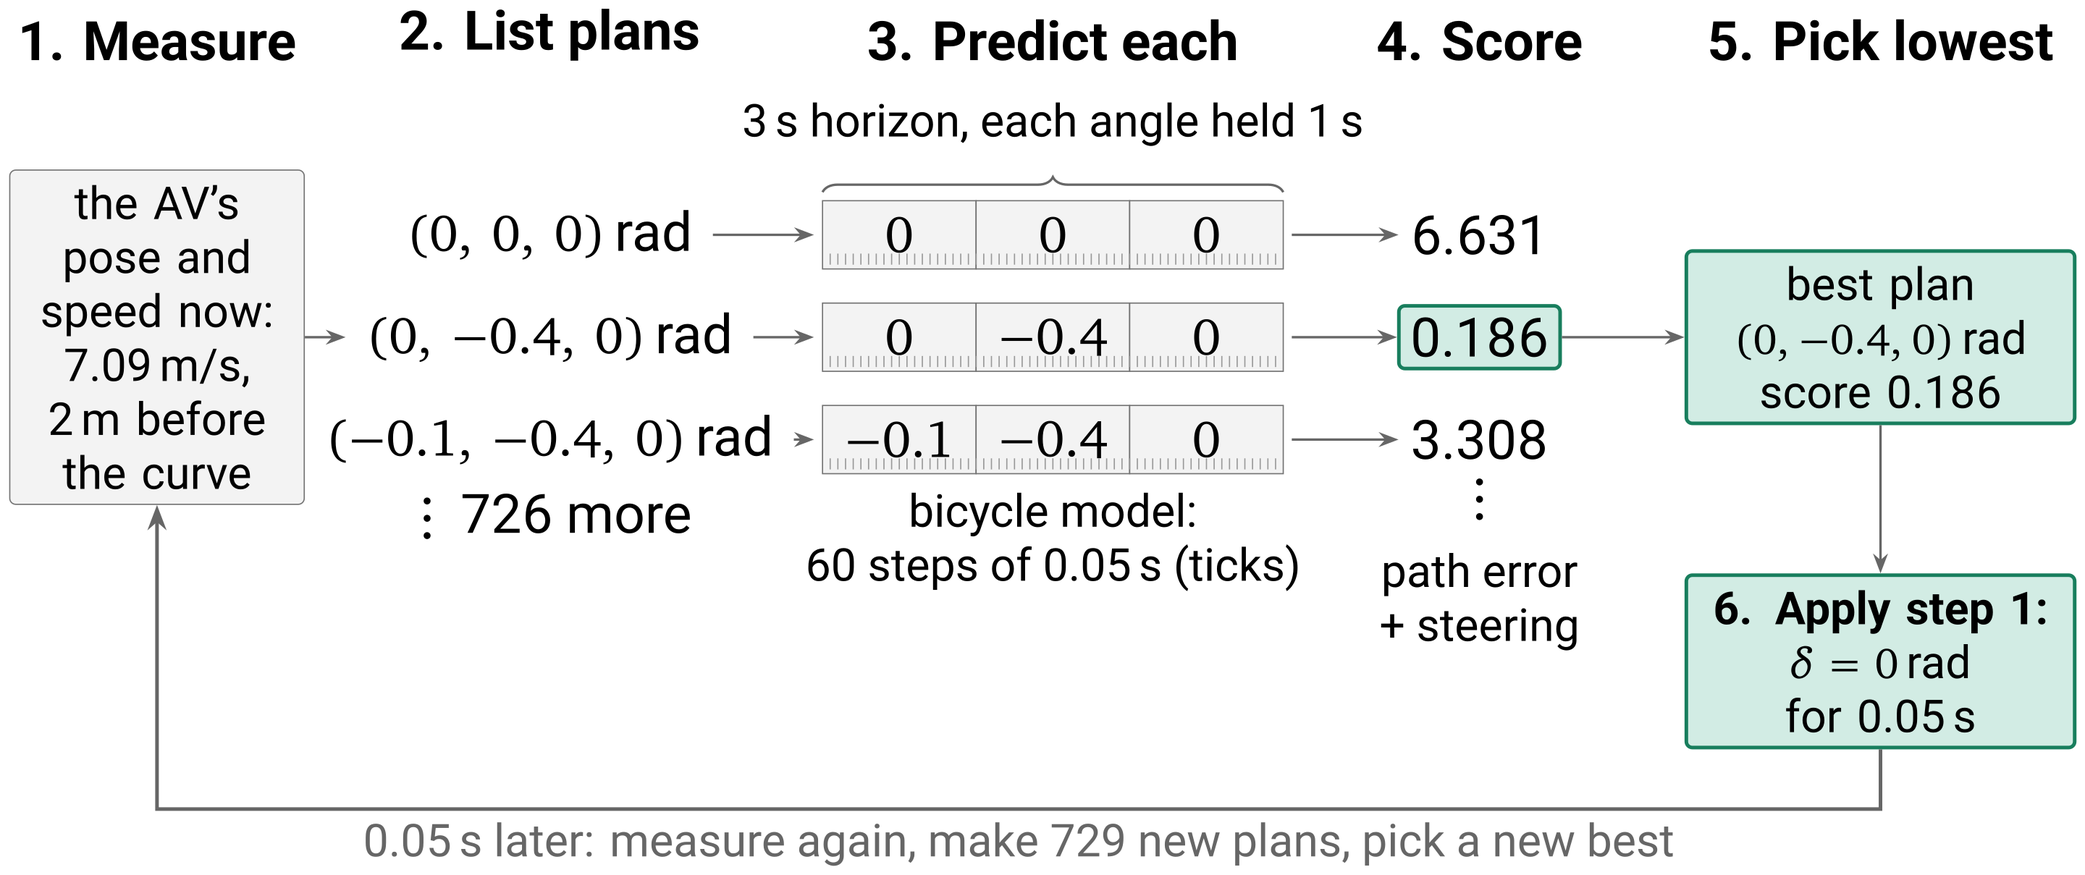
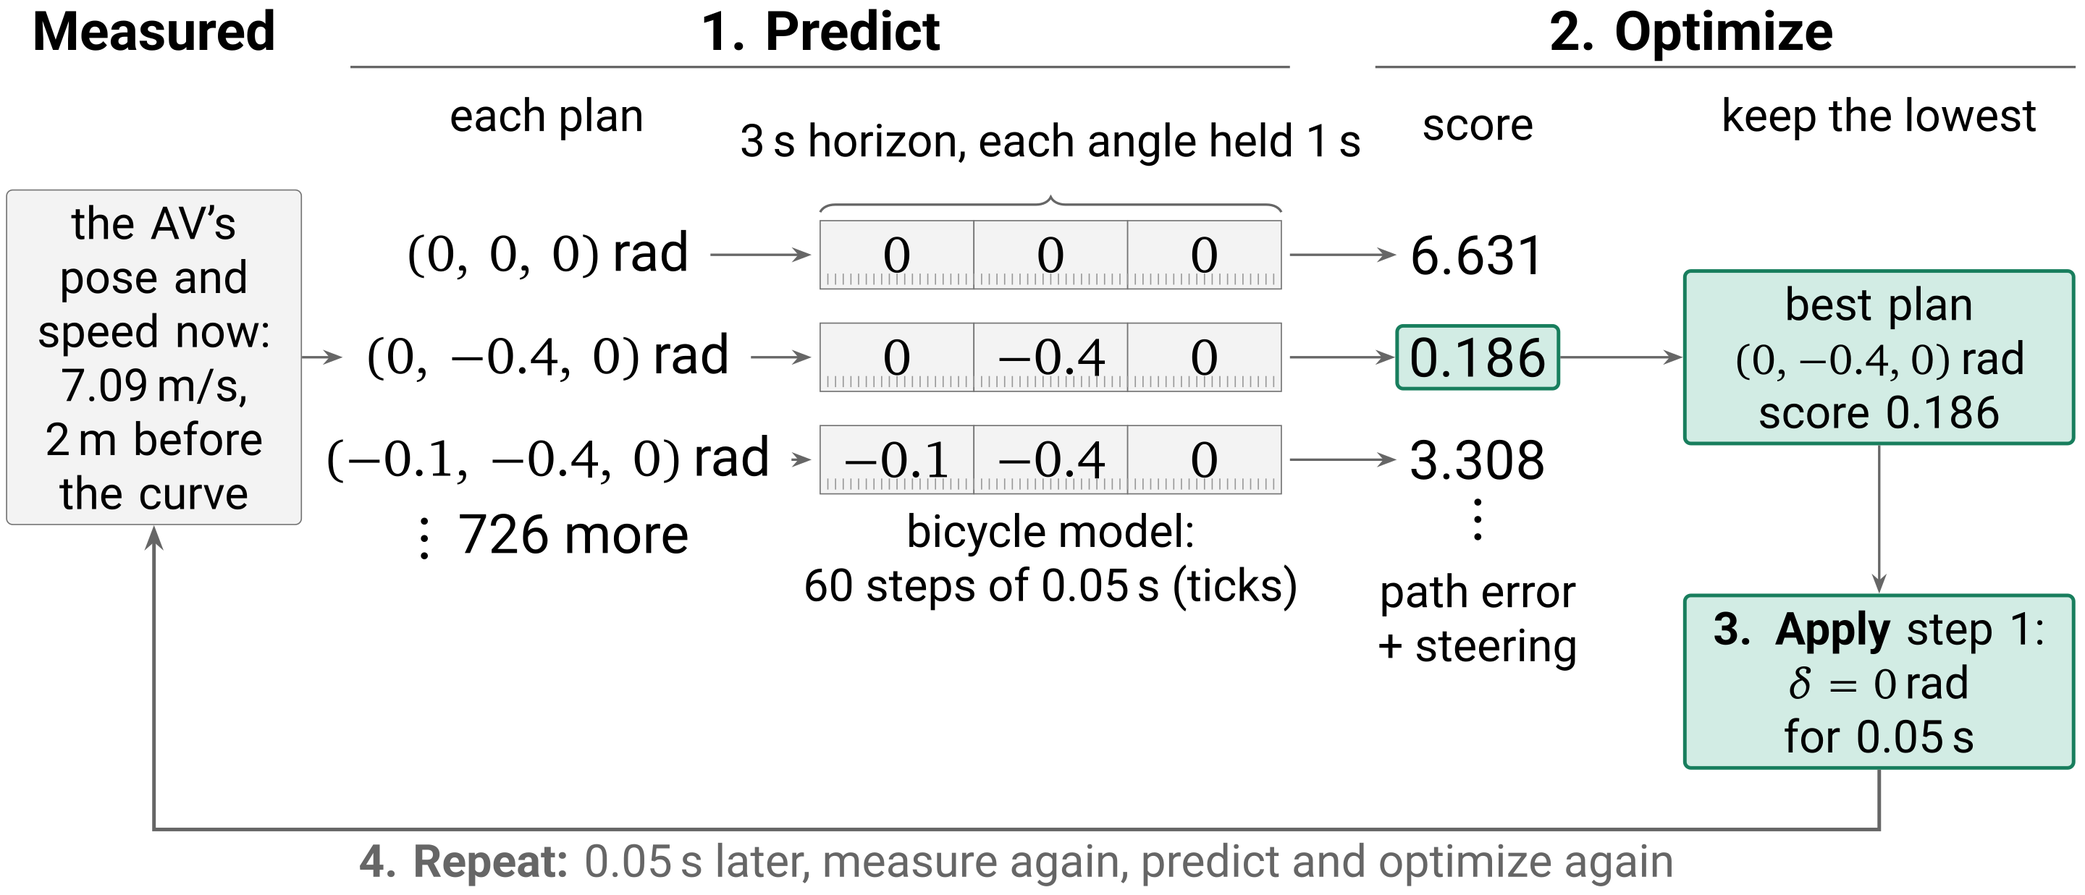
L10: MPC sections by predict, optimize, apply, repeat; CAN and ECU defined; summary box

diff --git a/docs/source/lectures/lecture10/l10_lecture.rst b/docs/source/lectures/lecture10/l10_lecture.rst
@@ -4449,16 +4449,17 @@ MPC
    :align: center
 
    Gray: 9 of the 729 candidates, each holding one steering angle for 3 s.
-   Green: the cheapest of all 729.
+   Green: the plan with the lowest score of all 729.
 
 Pure Pursuit and Stanley steer from the path as it is now, with one formula.
-MPC looks ahead: from the AV now, it predicts with the bicycle model where
-each candidate steering takes it over the next 3 s (gray: 9 of the 729 it
-tries), scores them, and keeps the cheapest (green). The AV steers with the
-green plan's first angle for one control step, 0.05 s; then MPC measures
-where the AV is and makes a whole new 3 s plan. The rest of the old plan is
-never used. It does what the local planner did in path
-and trajectory generation: roll out candidates, score them, keep the best.
+MPC looks ahead. It **predicts** with the bicycle model where each candidate
+steering takes the AV over the next 3 s (gray: 9 of the 729 it tries), and
+**optimizes**: keeps the plan with the lowest score (green). It **applies**
+that plan's first angle for one control step, 0.05 s, then **repeats** from
+a new measurement. The rest of the old plan is never used. It does what the
+local planner did in path and trajectory generation: roll out candidates,
+score them, keep the best. Predict, optimize, apply, repeat: those four words
+organize the sections below.
 
 
 .. _l10-lec-mpc-idea:
@@ -4466,12 +4467,21 @@ and trajectory generation: roll out candidates, score them, keep the best.
 Look Ahead, Then Act: the Idea of MPC
 ^^^^^^^^^^^^^^^^^^^^^^^^^^^^^^^^^^^^^
 
-MPC looks ahead: "if I simulate the car for the next seconds, which
-steering sequence tracks the path best, within my limits?"
+.. admonition:: Definition: Model predictive control (MPC)
+   :class: note
 
-1. **Predict:** run a vehicle model forward over a horizon.
-2. **Optimize:** find the input sequence that minimizes the tracking error.
-3. **Apply:** only the first input.
+   At every step, choose the sequence of inputs over a fixed horizon that a
+   model predicts will score best, within the limits; apply only the first
+   input; repeat from the newly measured state.
+
+MPC asks: "if I simulate the car for the next seconds, which steering
+sequence tracks the path best, within my limits?" Four steps, each in the
+sections below with our curve:
+
+1. **Predict:** run a vehicle model forward over a horizon, for each
+   candidate plan.
+2. **Optimize:** keep the plan with the lowest score.
+3. **Apply:** only the plan's first input, for one step.
 4. **Repeat:** at the next step, from the new measurement.
 
 Re-solving from each measurement is the feedback; looking ahead handles the
@@ -4490,8 +4500,8 @@ curve coming.
 
 .. _l10-lec-bicycle-full:
 
-Predict with the Full Model: the State, the Inputs and Four Equations
-^^^^^^^^^^^^^^^^^^^^^^^^^^^^^^^^^^^^^^^^^^^^^^^^^^^^^^^^^^^^^^^^^^^^^
+Step 1, Predict: the Full Bicycle Model, Its State and Inputs
+^^^^^^^^^^^^^^^^^^^^^^^^^^^^^^^^^^^^^^^^^^^^^^^^^^^^^^^^^^^^^
 
 **Goal:** predict where the AV will be over the next seconds, MPC's step 1.
 The turn rate alone is not enough. The model tracks four numbers at the rear
@@ -4525,11 +4535,11 @@ the speed from the speed profile, which the speed PID holds.
 
 .. _l10-lec-mpc-plan:
 
-Make MPC's First Plan: Try 729 Steering Plans, Keep the Best
-^^^^^^^^^^^^^^^^^^^^^^^^^^^^^^^^^^^^^^^^^^^^^^^^^^^^^^^^^^^^
+Step 1, Predict: 729 Steering Plans on Our Curve
+^^^^^^^^^^^^^^^^^^^^^^^^^^^^^^^^^^^^^^^^^^^^^^^^
 
-**Goal:** choose the steering for the next 3 s that keeps the AV closest to
-the path. The AV is 2 m before the curve, at 7.09 m/s.
+**Goal:** predict where each candidate plan takes the AV over the next 3 s.
+Measured now: the AV is 2 m before the curve, at 7.09 m/s.
 
 .. figure:: /_static/images/L10/mpc_candidates.png
    :alt: A top view of the right curve, x from 68 to 100 meters and y from minus 14 to 6. The lane comes in from the left along y = 0 and bends down; solid lines mark its edges and a dashed gray line its center. The AV is drawn faintly at about x = 78, with a dark dot at its rear axle. A fan of hundreds of thin gray curves leaves the rear axle: a few bend left, up to y = 6, and most bend right, down to about y = minus 12.7. One thick green curve runs straight along the lane center to a green dot near x = 83.5, bends right to a second green dot near x = 87.7 and y = minus 1.3, and ends inside the curve, at about x = 90.6 and y = minus 3.5.
@@ -4548,25 +4558,20 @@ the path. The AV is 2 m before the curve, at 7.09 m/s.
    - **Green:** the best plan's path; its dots mark 1 and 2 s, where the
      held angle changes.
 
-1. **Measure** the AV's pose and speed now.
-2. **List the plans:** a plan is three steering angles in a row, each held
-   for 1 s. Each angle is one of 9 values, −0.6 to 0.2 rad in steps of 0.1:
-   :math:`9^3` = 729 plans (gray).
-3. **Predict** each plan with the bicycle model, 60 steps of 0.05 s. Our MPC
-   chooses only the steering; at each step the speed comes from the speed
-   profile.
-4. **Score** each predicted path (next section) and keep the lowest: 0, then
-   −0.4 (a right steer), then 0 rad (green).
-
-No formula gives :math:`\delta` here, unlike Pure Pursuit and Stanley: MPC
-tries angles and keeps the plan whose predicted path scores best. Its only
-formulas are the model's, used to predict.
+- **The plans:** a plan is three steering angles in a row, each held for
+  1 s. Each angle is one of 9 values, −0.6 to 0.2 rad in steps of 0.1:
+  :math:`9^3` = 729 plans.
+- **Predict each** with the bicycle model, from the measured pose: 60 steps
+  of 0.05 s. Our MPC chooses only the steering; at each step the speed comes
+  from the speed profile (gray).
+- **Green:** the plan step 2 keeps: 0, then −0.4 (a right steer), then
+  0 rad.
 
 
 .. _l10-lec-mpc-score:
 
-Score a Plan: Path Error Plus Steering Effort
-^^^^^^^^^^^^^^^^^^^^^^^^^^^^^^^^^^^^^^^^^^^^^
+Step 2, Optimize: Score Each Plan, Keep the Lowest
+^^^^^^^^^^^^^^^^^^^^^^^^^^^^^^^^^^^^^^^^^^^^^^^^^^
 
 **Goal:** one number per plan, lower is better. Score = path error +
 steering effort.
@@ -4615,22 +4620,23 @@ The table shows five of the 729 plans:
      - 0
      - 6.631
 
-Steering for the best: :math:`0^2 + 0.4^2 + 0^2` = 0.16. Here the path error
-alone picks the same plan; the steering effort matters when two plans track
-about equally well, and then it favors the gentler one.
+Keep the lowest, 0.186 (steering: :math:`0^2 + 0.4^2 + 0^2` = 0.16). Here
+the path error alone picks the same plan; the steering effort matters when
+two plans track about equally well, and then it favors the gentler one.
+
+No formula gives :math:`\delta` here, unlike Pure Pursuit and Stanley: the
+plan with the lowest score sets it. MPC's only formulas are the model's,
+used to predict.
 
 
 .. _l10-lec-mpc-def:
 
-Plan Ahead with MPC: Predict, Score, Apply the First Input, Repeat
-^^^^^^^^^^^^^^^^^^^^^^^^^^^^^^^^^^^^^^^^^^^^^^^^^^^^^^^^^^^^^^^^^^
+Steps 3 and 4, Apply and Repeat: Use 0.05 s of the Plan, Then Plan Again
+^^^^^^^^^^^^^^^^^^^^^^^^^^^^^^^^^^^^^^^^^^^^^^^^^^^^^^^^^^^^^^^^^^^^^^^^
 
-.. admonition:: Definition: Model predictive control (MPC)
-   :class: note
-
-   At every step, choose the sequence of inputs over a fixed horizon that a
-   model predicts will score best, within the limits; apply only the first
-   input; repeat from the newly measured state.
+**Apply:** the AV uses only step 1 of the best plan, 0 rad for 0.05 s
+(green). **Repeat:** 0.05 s later, MPC measures the AV, then predicts and
+optimizes again (the lower rows).
 
 .. figure:: /_static/images/L10/mpc_loop.png
    :alt: A timeline of MPC plans, with time t in seconds from 0 to 3 along the bottom. A brace over the top row says the horizon: 3 s, 60 steps of 0.05 s. The top row, the best plan at t = 0, score 0.186, is split into three pieces with a small tick for each step: steps 1 to 20, delta = 0 rad; steps 21 to 40, delta = -0.4 rad; steps 41 to 60, delta = 0 rad. Below it, two plain bars, the best plans at t = 0.05 s and t = 0.10 s, each starting one step later. Each row's first step is green, and a label says green is the step each plan applies.
@@ -4651,12 +4657,13 @@ Plan Ahead with MPC: Predict, Score, Apply the First Input, Repeat
      step later from the new measured pose.
    - **Green:** the one step each plan applies before the next plan.
 
-The top row is the score table's winner: MPC picked it by its score, and
-the AV uses its steering angles. **Why only step 1:** the plan is a
-prediction, and it is never exact. Our
+The top row is the winner of step 2, picked by its score; the AV uses its
+steering angles. **Why apply only step 1:** the plan is a prediction, and it
+is never exact. Our
 model leaves out the steering delay and lag that the simulated car has, so
 the real AV would not follow the plan exactly. After 0.05 s, MPC measures where the AV really
-is and picks a new best plan from there: the second row, then the third. That makes
+is, then predicts and optimizes again from there: the second row, then the
+third. That makes
 MPC a feedback controller. The other 59 steps still count: they are why
 step 1 is 0 rad (steering right 1 s early scored 3.308 instead of 0.186).
 Its horizon has times, so it can track a trajectory (timing 2, in
@@ -4700,28 +4707,28 @@ Trajectory Generation).
 
 .. _l10-lec-mpc-cycle:
 
-See MPC as One Loop: Measure, Plan, Score, Pick, Apply
+Put the Four Steps Together: One MPC Loop Every 0.05 s
 ^^^^^^^^^^^^^^^^^^^^^^^^^^^^^^^^^^^^^^^^^^^^^^^^^^^^^^
 
 .. figure:: /_static/images/L10/mpc_cycle.png
-   :alt: A loop diagram of one MPC cycle in six numbered columns. 1, Measure: a box, the AV's pose and speed now, 7.09 m/s, 2 m before the curve. 2, List plans: three plans, (0, 0, 0) rad, (0, -0.4, 0) rad and (-0.1, -0.4, 0) rad, and 726 more. 3, Predict each: for each plan, a bar of three pieces with its three angles, under a brace saying 3 s horizon, each angle held 1 s, with 60 small ticks; a label says bicycle model, 60 steps of 0.05 s. 4, Score: an arrow from each bar to its score, 6.631, 0.186 in a green box, and 3.308; a label says path error plus steering. 5, Pick lowest: a green box, best plan (0, -0.4, 0) rad, score 0.186. 6, below it, a green box: apply step 1, delta = 0 rad for 0.05 s. A thick arrow runs from it back along the bottom to the Measure box, labeled 0.05 s later: measure again, make 729 new plans, pick a new best.
+   :alt: A loop diagram of one MPC cycle. On the left, under Measured, a box: the AV's pose and speed now, 7.09 m/s, 2 m before the curve. A header 1, Predict, spans two columns: each plan, with three plans, (0, 0, 0) rad, (0, -0.4, 0) rad and (-0.1, -0.4, 0) rad, and 726 more; and, for each plan, a bar of three pieces with its three angles, under a brace saying 3 s horizon, each angle held 1 s, with 60 small ticks and a label, bicycle model, 60 steps of 0.05 s. A header 2, Optimize, spans two more columns: score, an arrow from each bar to its score, 6.631, 0.186 in a green box, and 3.308, labeled path error plus steering; and keep the lowest, a green box, best plan (0, -0.4, 0) rad, score 0.186. Below it a green box: 3, Apply step 1, delta = 0 rad for 0.05 s. A thick arrow runs from it back along the bottom to the Measured box, labeled 4, Repeat: 0.05 s later, measure again, predict and optimize again.
    :width: 100%
    :align: center
 
    One MPC cycle on our curve, with three of the 729 plans.
 
-1. **Measure** the AV: 7.09 m/s, 2 m before the curve.
-2. **List the plans:** a plan is three steering angles, each held 1 s; the
-   figure shows three of the 729.
-3. **Predict** each plan with the bicycle model over the 3 s horizon, 60
-   steps of 0.05 s (the ticks).
-4. **Score** each predicted path, path error plus steering: 6.631 for going
-   straight, 0.186 for (0, −0.4, 0) rad, 3.308 for steering right 1 s early.
-5. **Pick** the lowest score, 0.186.
-6. **Apply** only its first step: 0 rad for 0.05 s.
+- **Measured:** the AV at 7.09 m/s, 2 m before the curve.
+- **1. Predict:** each plan, three steering angles each held 1 s, with the
+  bicycle model over the 3 s horizon, 60 steps of 0.05 s (the ticks); the
+  figure shows three of the 729.
+- **2. Optimize:** score each predicted path, path error plus steering:
+  6.631 for going straight, 0.186 for (0, −0.4, 0) rad, 3.308 for steering
+  right 1 s early. Keep the lowest, 0.186.
+- **3. Apply:** only its first step, 0 rad for 0.05 s.
+- **4. Repeat:** 0.05 s later, measure again, then predict and optimize
+  again.
 
-Every 0.05 s, MPC runs steps 1 to 6 again from a new measurement. Each plan
-looks 3 s ahead, but the AV uses only its first 0.05 s.
+Each plan looks 3 s ahead, but the AV uses only its first 0.05 s.
 
 
 .. _l10-lec-mpc-weigh:
@@ -5396,7 +5403,7 @@ Let a Computer Drive: One Command, from the Program to the Wheels
 
 .. figure:: /_static/images/L10/ecu_chain.png
    :alt: A block diagram from top to bottom. A gray box, Driving computer, planning and control. Below it a box, CAN bus: a solid arrow labeled command goes down to it and a dashed arrow labeled feedback goes up from it. Below that a green box, Electronic control units (ECUs), with the same pair of arrows from the CAN bus. At the bottom left a box, Actuator, reached by a solid arrow labeled drive from the ECUs; at the bottom right a box, Sensor, with a dashed arrow labeled reading up into the ECUs.
-   :width: 45%
+   :width: 30%
    :align: center
 
    One command's path through the car.
@@ -5409,10 +5416,15 @@ Let a Computer Drive: One Command, from the Program to the Wheels
    drives its actuator and reads its sensor, then sends feedback back up
    the same bus.
 
-1. The driving computer sends a command on the **CAN bus**, the serial bus a
-   car's control units share (Bosch, 1991).
-2. An **ECU** (electronic control unit) checks it and drives its actuator:
-   the steering motor, the throttle or the brakes.
+- **CAN bus** (Controller Area Network): the network all of a car's control
+  units share; any unit can send a message on it, and every unit reads it. A
+  message carries an identifier and up to 8 bytes of data (Bosch, 1991).
+- **ECU** (electronic control unit): a small embedded computer that runs one
+  part of the car, such as the steering, the engine or the brakes.
+
+1. The driving computer sends a command on the CAN bus.
+2. An ECU checks it and drives its actuator: the steering motor, the
+   throttle or the brakes.
 3. The ECU reads its sensor and sends **feedback** back on the bus (dashed).
 
 .. dropdown:: More detail: the actuators, the command chain, ECUs, CAN, a message layout and fail safe
@@ -5912,21 +5924,25 @@ From our runs on the curve (the Lateral and Longitudinal sections):
 Summary
 -------
 
-This closes the lecture: the six parts that turned a path into a steering,
-throttle and brake command.
+.. admonition:: Today: from a path to steering, throttle and brake
+   :class: important
 
-- **Trajectories**: sampled in time and checked against where a moving car
-  will be; the AV waited for car B, then passed.
-- **Vehicle models**: Ackermann for the wheels, the kinematic bicycle while
-  the sideways acceleration stays under :math:`0.5\mu g`, the dynamic one
-  beyond.
-- **Lateral**: Pure Pursuit chases a point, Stanley fixes heading and offset
-  at the front axle, MPC plans the next seconds.
-- **Longitudinal**: a PID with split pedals and anti-windup; production
-  adds a layer above it.
-- **Actuators**: by wire; the wheel turns about 0.2 s after the command on a
-  measured car.
-- **CARLA**: one node, five inputs, one command, 20 times a second.
+   - **Behavior layer**: a superstate or a behavior tree keeps it small.
+   - **Trajectories**: paths with times, sampled in time and checked against
+     where a moving car will be; the AV waited for car B, then passed. A
+     quintic changes speed with small jerk.
+   - **Vehicle models**: Ackermann for the wheels, the kinematic bicycle
+     while the sideways acceleration stays under :math:`0.5\mu g`, the
+     dynamic one beyond.
+   - **Lateral**: Pure Pursuit chases a point 5 m ahead (short weaves, long
+     cuts inside curves); Stanley fixes heading and offset at the front
+     axle; MPC predicts, optimizes, applies only the first input, and
+     repeats.
+   - **Longitudinal**: a PID with split pedals and anti-windup; production
+     adds a layer above it.
+   - **Actuators**: by wire; the wheel turns about 0.2 s after the command
+     on a measured car.
+   - **CARLA**: one node, five inputs, one command, 20 times a second.
 
 
 .. _l10-lec-equations:
@@ -6048,19 +6064,6 @@ The lecture's models and controllers condense to five equations:
 
 Next Class
 ----------
-
-.. admonition:: Today
-   :class: important
-
-   The planners hand over a path; **today we planned trajectories, paths
-   with times, and turned one into steering, throttle and brake.** A
-   superstate or a behavior tree keeps the behavior layer small. Sampled in
-   time and checked against a moving car, the AV waited for car B and
-   passed the parked car. The bicycle model predicts; a quintic changes
-   speed with small jerk; a PID holds the speed, with a clamp against
-   windup; Pure Pursuit steers toward a point 5 m ahead (short weaves, long
-   cuts inside curves); Stanley steers from the front axle; MPC plans the next
-   seconds and applies only the first input.
 
 - **L11, End-to-End Driving, VLA and Imitation Learning:** one network from
   the sensors to a trajectory or to the controls, in place of the whole

diff --git a/docs/source/lectures/lecture10/l10_quiz.rst b/docs/source/lectures/lecture10/l10_quiz.rst
@@ -240,8 +240,7 @@ Multiple Choice (Questions 1 to 17)
    **B**); the fourth changes the speed (**D**). The turn rate grows with
    speed and with steering: :math:`\dot\theta = v\tan\delta / L`. An EKF
    predicts with the gyro's measured turn rate instead; a controller chooses
-   :math:`\delta`, so here the turn rate comes from it. See "Predict with
-   the Full Model: the State, the Inputs and Four Equations" in
+   :math:`\delta`, so here the turn rate comes from it. See "Step 1, Predict: the Full Bicycle Model, Its State and Inputs" in
    :doc:`l10_lecture`.
 
 
@@ -507,8 +506,7 @@ Multiple Choice (Questions 1 to 17)
 
    0.031 (**A**) leaves out the steering; 0.191 (**B**) forgets the third
    angle; 0.531 (**D**) adds the angles without squaring them. It loses to
-   the best plan, 0.186. See "Score a Plan: Path Error Plus Steering
-   Effort" in :doc:`l10_lecture`.
+   the best plan, 0.186. See "Step 2, Optimize: Score Each Plan, Keep the Lowest" in :doc:`l10_lecture`.
 
 
 .. admonition:: Question 17
@@ -608,8 +606,7 @@ True or False (Questions 18 to 23)
    MPC applies only the first input, then plans again from the newly
    measured state at the next step (every 0.05 s here). The horizon slides
    forward with the AV, so MPC is a feedback controller: each plan starts
-   from the measured pose. See "Plan Ahead with MPC: Predict, Score, Apply
-   the First Input, Repeat" in :doc:`l10_lecture`.
+   from the measured pose. See "Steps 3 and 4, Apply and Repeat: Use 0.05 s of the Plan, Then Plan Again" in :doc:`l10_lecture`.
 
 
 .. admonition:: Question 22
@@ -626,8 +623,7 @@ True or False (Questions 18 to 23)
    No formula gives :math:`\delta` in MPC: it tries 729 plans, predicts each
    with the bicycle model, scores the predicted paths and keeps the plan
    with the lowest score. Its only formulas are the model's, used to
-   predict. See "Make MPC's First Plan: Try 729 Steering Plans, Keep the
-   Best" in :doc:`l10_lecture`.
+   predict. See "Step 1, Predict: 729 Steering Plans on Our Curve" in :doc:`l10_lecture`.
 
 
 .. admonition:: Question 23
@@ -643,8 +639,7 @@ True or False (Questions 18 to 23)
 
    The model takes both inputs, and a full MPC can choose both. The
    lecture's MPC chooses only the steering; at each predicted step the speed
-   comes from the speed profile, which the speed PID holds. See "Predict
-   with the Full Model: the State, the Inputs and Four Equations" in
+   comes from the speed profile, which the speed PID holds. See "Step 1, Predict: the Full Bicycle Model, Its State and Inputs" in
    :doc:`l10_lecture`.
 
 
@@ -711,6 +706,4 @@ Short Answer (Questions 24 to 26)
    0 rad for the first second, −0.4 rad for the second, then 0 rad, with a
    score of 0.186. Steering right one second early (−0.1, −0.4, 0 rad)
    scores 3.308. MPC applies only step 1, 0 rad for 0.05 s, then plans again
-   from the new measured pose. See "Score a Plan: Path Error Plus Steering
-   Effort" and "Plan Ahead with MPC: Predict, Score, Apply the First Input,
-   Repeat" in :doc:`l10_lecture`.
+   from the new measured pose. See "Step 2, Optimize: Score Each Plan, Keep the Lowest" and "Steps 3 and 4, Apply and Repeat: Use 0.05 s of the Plan, Then Plan Again" in :doc:`l10_lecture`.

diff --git a/docs/source/changelog/changelog.rst b/docs/source/changelog/changelog.rst
@@ -12,12 +12,14 @@ All notable changes to the ENPM818Z Fall 2026 course documentation are recorded 
 
    .. rubric:: Lectures
 
-   - **L10, MPC in three sections:** "Make MPC's First Plan" walks through
-     the 729 candidate plans 2 m before the curve; "Score a Plan" gives the
-     score (path error plus steering effort) for five of them; "Plan Ahead
-     with MPC" now draws the best plan's 60 steps and says why only step 1
-     is applied. Our MPC sets only the steering; the speed comes from the
-     speed profile.
+   - **L10, MPC by its four steps:** every MPC section uses the idea's four
+     steps, predict, optimize, apply, repeat. The definition opens the
+     part. "Step 1, Predict" covers the full bicycle model and the 729
+     candidate plans 2 m before the curve; "Step 2, Optimize" scores them
+     (path error plus steering effort) and keeps the lowest; "Steps 3 and 4,
+     Apply and Repeat" draws the best plan's 60 steps and says why only step
+     1 is applied; a new diagram puts the four steps together. Our MPC sets
+     only the steering; the speed comes from the speed profile.
    - **L10, "Choose a Steering Controller":** where Pure Pursuit, Stanley and
      MPC each fit. The five-run comparison table moved into the Snider
      "More detail" box.
@@ -25,6 +27,10 @@ All notable changes to the ENPM818Z Fall 2026 course documentation are recorded 
      the model rows say what they mean.
    - **L10, wording:** the test road's bend is a curve, not a turn; "jumps
      in the path" are breaks in the path.
+   - **L10, "Let a Computer Drive":** what a CAN bus and an ECU are, in one
+     sentence each.
+   - **L10, "Summary":** in a summary box, with the behavior layer and the
+     quintic; the "Today" box left "Next Class".
 
    .. rubric:: Removed
 
